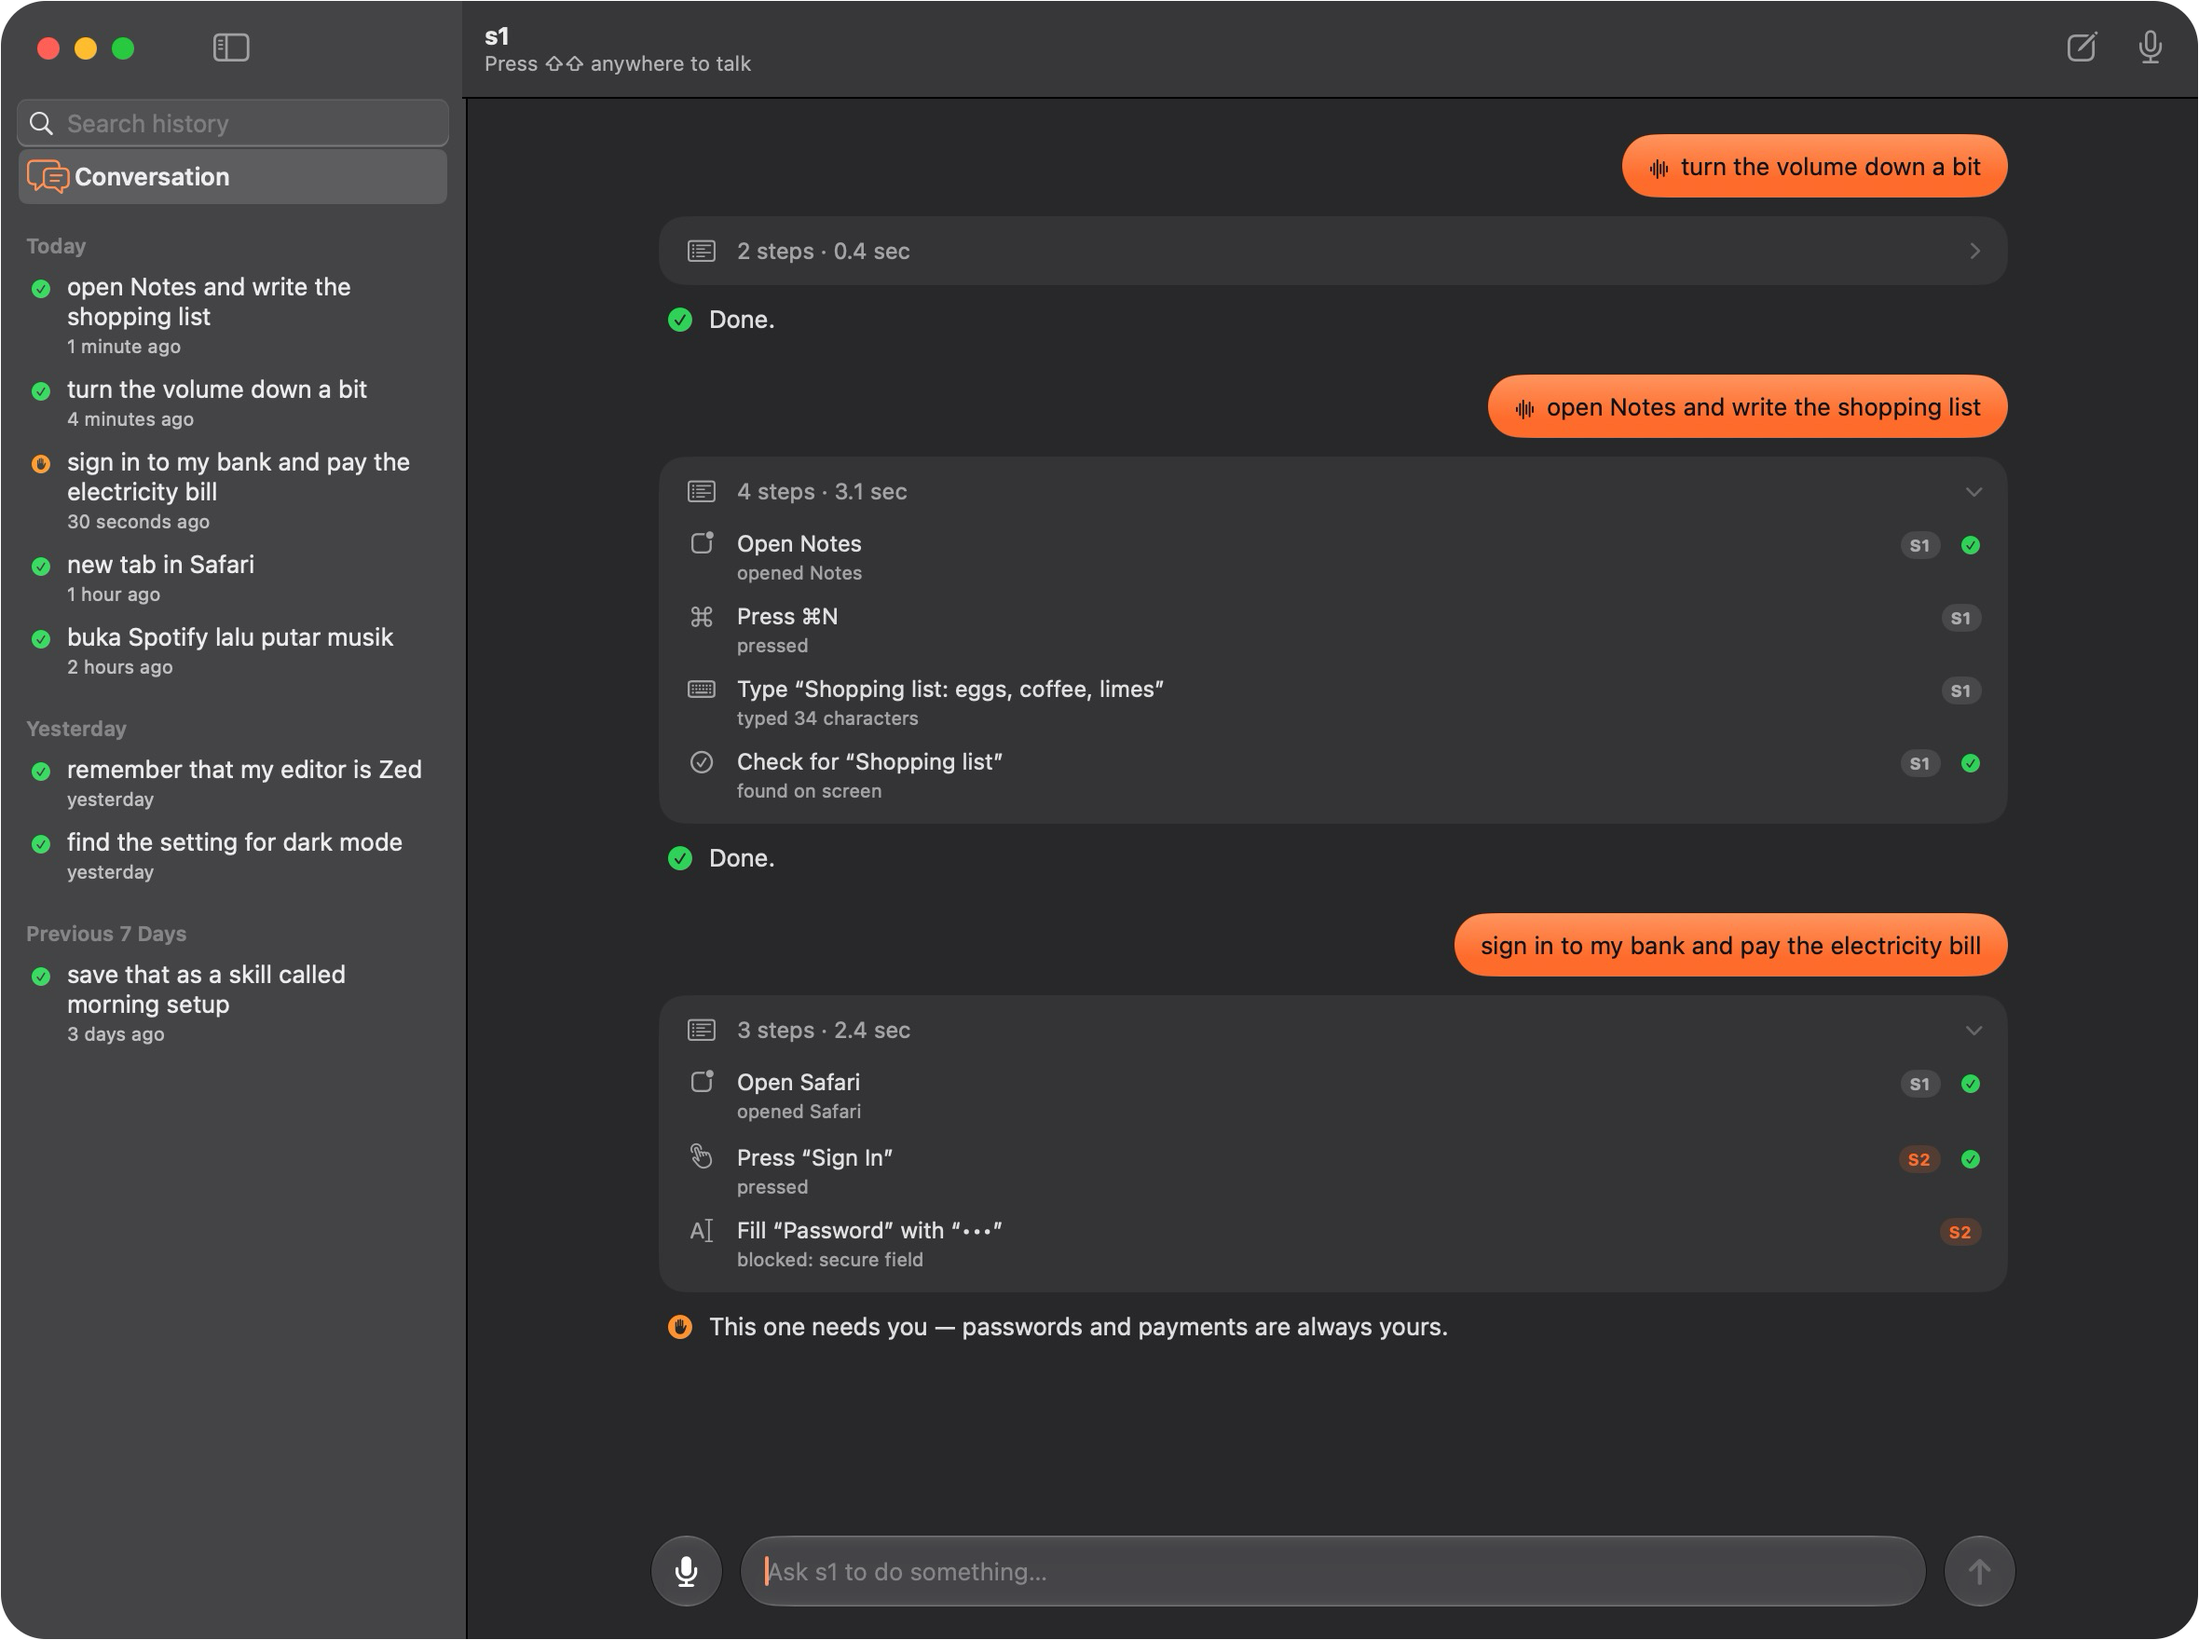
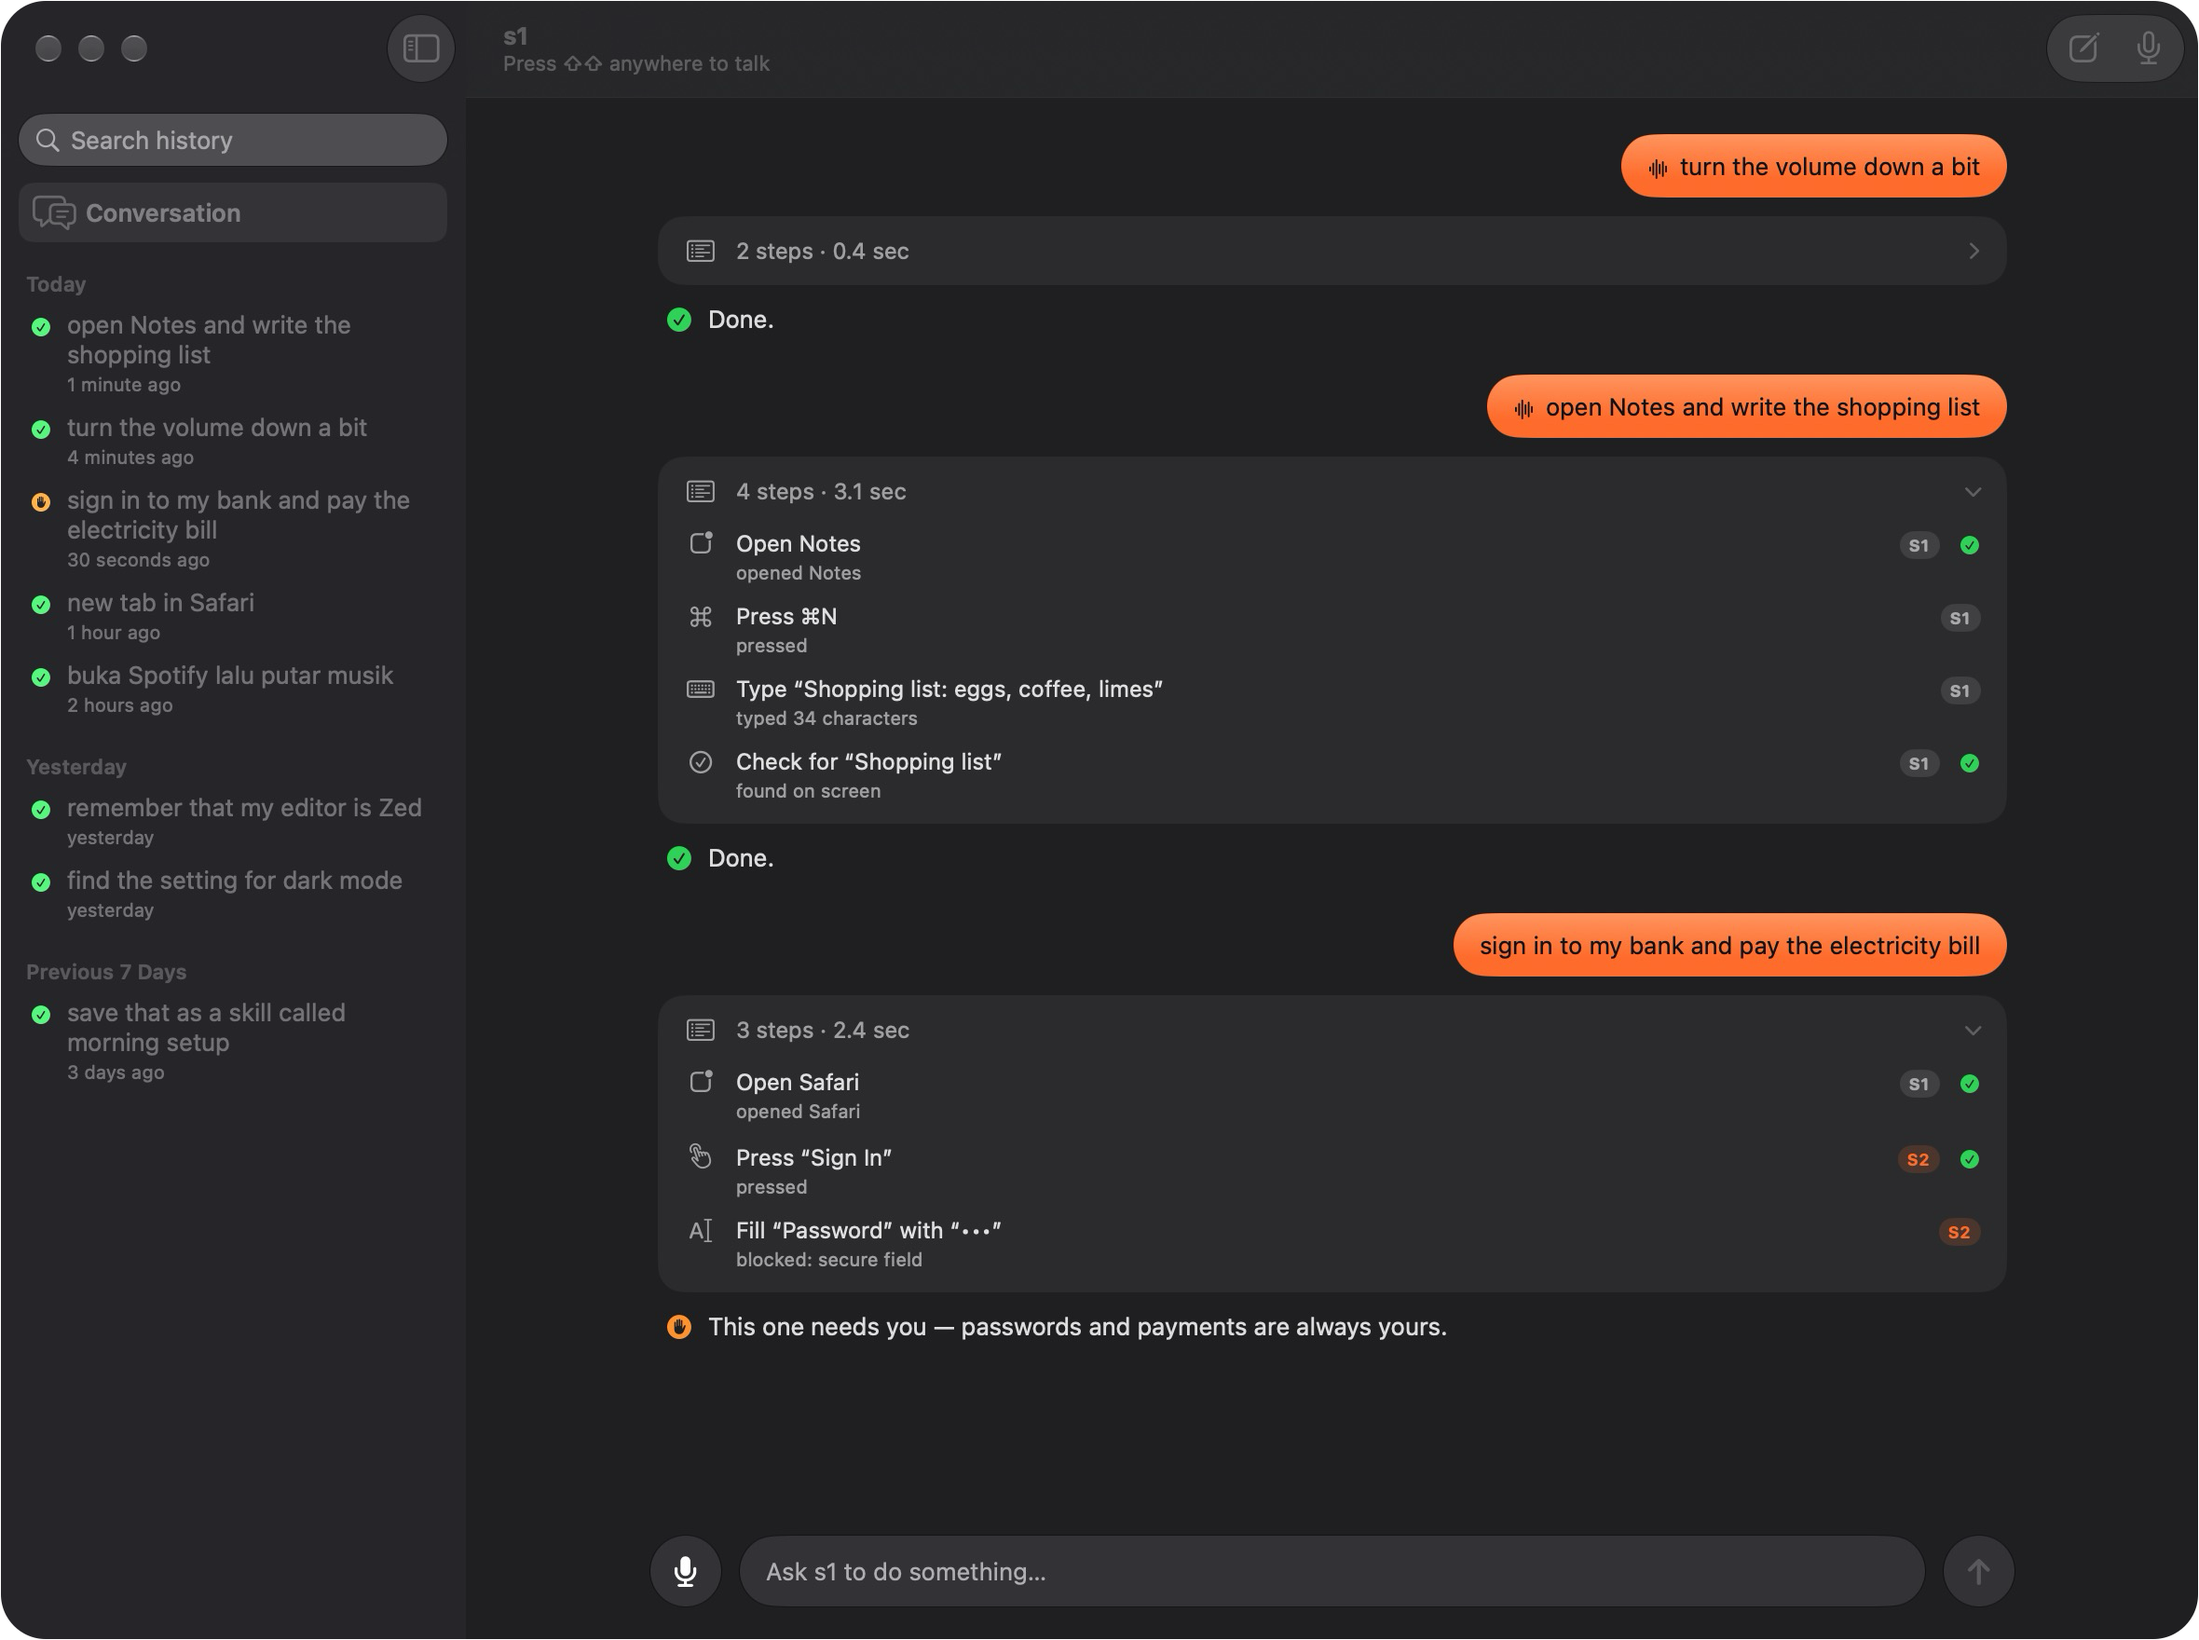
v0.3.2: target the macOS 26 SDK (real Liquid Glass layout), fewer Keychain prompts, accent empty-state hint

diff --git a/Sources/S1Core/Config/Keychain.swift b/Sources/S1Core/Config/Keychain.swift
@@ -3,8 +3,18 @@ import Security
 
 /// API keys live in the login Keychain, never in `~/.s1/config.json`.
 /// One generic-password item per connected provider, under one service name.
+///
+/// macOS asks before an app reads an item's *secret*; asking only whether an
+/// item exists never prompts. So `has` reads attributes only, and `get` reads
+/// each secret at most once per process (cached until `set`/`delete`). With
+/// a stable code signature, "Always Allow" on that one prompt sticks across
+/// updates.
 public enum SecretStore {
     public static let defaultService = "com.matthew.s1.api-keys"
+
+    nonisolated(unsafe) private static var cache: [String: String] = [:]
+    private static let lock = NSLock()
+    private static func key(_ service: String, _ account: String) -> String { service + "/" + account }
 
     public static func set(_ secret: String, account: String,
                            service: String = defaultService) throws {
@@ -24,9 +34,11 @@ public enum SecretStore {
         guard status == errSecSuccess else {
             throw S1Error.aborted("keychain write failed (\(status))")
         }
+        lock.withLock { cache[key(service, account)] = secret }
     }
 
     public static func get(account: String, service: String = defaultService) -> String? {
+        if let hit = lock.withLock({ cache[key(service, account)] }) { return hit }
         let q: [String: Any] = [kSecClass as String: kSecClassGenericPassword,
                                 kSecAttrService as String: service,
                                 kSecAttrAccount as String: account,
@@ -36,11 +48,18 @@ public enum SecretStore {
         guard SecItemCopyMatching(q as CFDictionary, &out) == errSecSuccess,
               let data = out as? Data, let s = String(data: data, encoding: .utf8),
               !s.isEmpty else { return nil }
+        lock.withLock { cache[key(service, account)] = s }
         return s
     }
 
+    /// Whether a key is stored, without reading it (never prompts).
     public static func has(account: String, service: String = defaultService) -> Bool {
-        get(account: account, service: service) != nil
+        let q: [String: Any] = [kSecClass as String: kSecClassGenericPassword,
+                                kSecAttrService as String: service,
+                                kSecAttrAccount as String: account,
+                                kSecReturnAttributes as String: true,
+                                kSecMatchLimit as String: kSecMatchLimitOne]
+        return SecItemCopyMatching(q as CFDictionary, nil) == errSecSuccess
     }
 
     @discardableResult
@@ -49,6 +68,7 @@ public enum SecretStore {
                                 kSecAttrService as String: service,
                                 kSecAttrAccount as String: account]
         let status = SecItemDelete(q as CFDictionary)
+        lock.withLock { _ = cache.removeValue(forKey: key(service, account)) }
         return status == errSecSuccess || status == errSecItemNotFound
     }
 }

diff --git a/Sources/S1App/ContentView.swift b/Sources/S1App/ContentView.swift
@@ -507,7 +507,8 @@ private struct EmptyConversation: View {
                     Label("Only the built-in grammar is on. Connect a model to handle anything else.",
                           systemImage: "sparkles")
                 }
-                .buttonStyle(.link)
+                .buttonStyle(.plain)
+                .foregroundStyle(model.accent)
                 .font(.callout)
                 .padding(.top, 4)
             }

diff --git a/Package.swift b/Package.swift
@@ -1,10 +1,10 @@
-// swift-tools-version: 6.0
+// swift-tools-version: 6.2
 import PackageDescription
 
 let package = Package(
     name: "s1",
     defaultLocalization: "en",
-    platforms: [.macOS(.v15)],
+    platforms: [.macOS(.v26)],
     products: [
         .library(name: "S1Core", targets: ["S1Core"]),
         .executable(name: "s1", targets: ["s1"]),

diff --git a/Sources/S1App/S1App.swift b/Sources/S1App/S1App.swift
@@ -15,6 +15,7 @@ struct S1App: App {
         }
         .defaultSize(width: DemoContent.enabled ? 1320 : 1000, height: DemoContent.enabled ? 860 : 680)
         .windowToolbarStyle(.unified)
+        .defaultLaunchBehavior(.presented)
         .commands { S1Commands(model: model) }
 
         Window("Set Up s1", id: "onboarding") {

diff --git a/Sources/S1Core/S1.swift b/Sources/S1Core/S1.swift
@@ -1,5 +1,5 @@
 /// The library itself — one version string shared by the CLI, the app, and
 /// every run's meta.json (artifact provenance: "which s1 wrote this").
 public enum S1Info {
-    public static let version = "0.3.1"
+    public static let version = "0.3.2"
 }

diff --git a/AGENTS.md b/AGENTS.md
@@ -34,12 +34,17 @@ Pre-1.0 with a single main user: **breaking changes are fine, no config migratio
 ## Invariants
 - The safety gate runs before every action; judges can only lower confidence.
 - Keys never touch `config.json`. Config writes go through `S1Config.update` (load → mutate → save).
+- Keychain: `SecretStore.has` reads attributes only (never prompts); `get` caches per process. Never read a
+  secret just to test presence. Data-protection keychain needs a provisioning profile (AMFI kills the
+  binary without one), so s1 stays on the login keychain with a stable signing identity.
 - UI: glass only on chrome/controls (toolbar, composer, pills, banners); content uses plain fills.
 - Accent: `AppModel.accent` (s1 orange `Theme.orange` by default, or the macOS accent via
   Settings → Appearance, UserDefaults `accent`). Use it, never hard-coded colors; `onAccent` for text on it.
 - Every user-facing string is localizable; keep `Sources/S1App/id.lproj/Localizable.strings` in sync.
 
 ## Verify
+- SwiftPM targets macOS 26 (`platforms: [.macOS(.v26)]`). The SDK stamped into the binary decides
+  whether macOS applies the Liquid Glass design; check with `vtool -show-build` (must say sdk 26+).
 - `swift build && swift test` (one known-flaky test under load: `serveRunErrorsAutoSleep`).
 - App UI: build a bundle with a separate bundle id (don't clobber the installed S1), back up
   `~/.s1/config.json` first; the app writes it. `scripts/make-app.sh` builds `dist/S1.app`.

diff --git a/CHANGELOG.md b/CHANGELOG.md
@@ -3,6 +3,21 @@
 All notable changes to s1. Format loosely follows [Keep a Changelog](https://keepachangelog.com/);
 this project is pre-1.0 — breaking changes land in minor versions.
 
+## [0.3.2] - 2026-10-06
+
+### Fixed
+- **The real macOS 26 look.** The app was built against the macOS 15 SDK
+  (`Package.swift` platform), so macOS ran it in compatibility mode: a flush
+  sidebar, a hairline under the toolbar, a misplaced sidebar button. It now
+  targets macOS 26 and gets the floating Liquid Glass sidebar, the system
+  sidebar toggle and edge-to-edge toolbar. The main window opens at launch
+  explicitly (`defaultLaunchBehavior(.presented)`).
+- **Far fewer Keychain prompts.** Checking whether a provider has a key no
+  longer reads the key, and each key is read at most once per launch. Choose
+  "Always Allow" once and updates keep that access (they're signed with the
+  same identity).
+- The empty-state hint uses the accent color instead of link blue.
+
 ## [0.3.1] - 2026-10-06
 
 ### Changed
